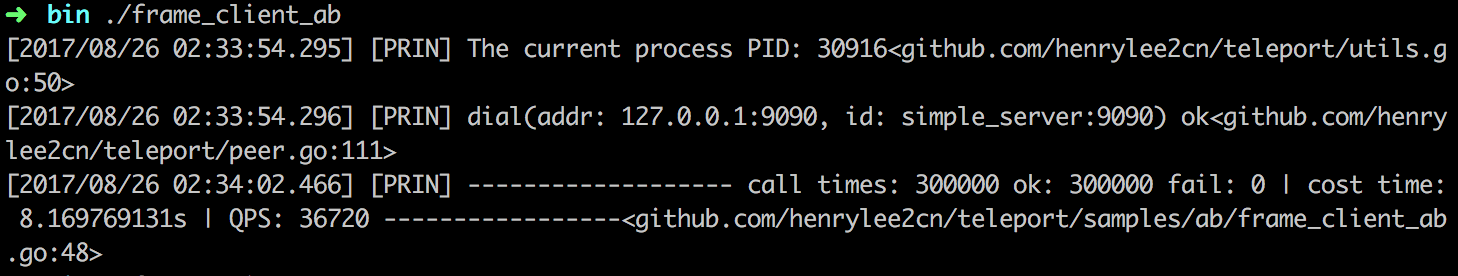
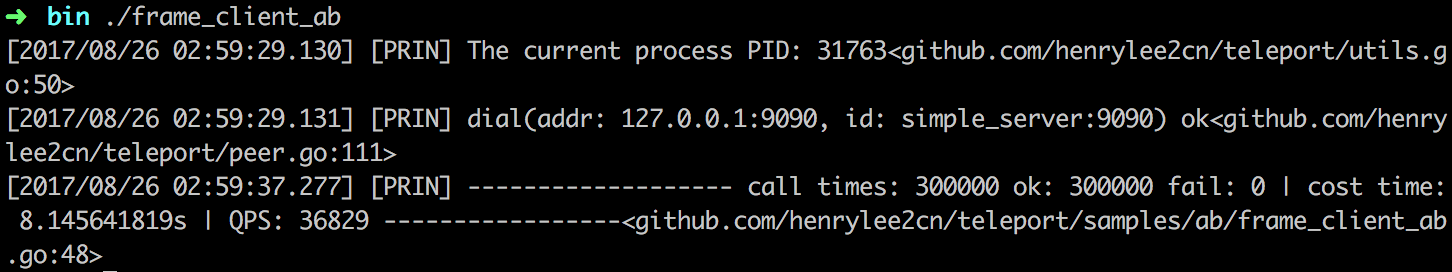
optimized codes

diff --git a/codec/json_codec.go b/codec/json_codec.go
@@ -19,11 +19,14 @@ import (
 	"encoding/json"
 	"io"
 
+	"github.com/json-iterator/go"
+
 	"github.com/henrylee2cn/teleport/utils"
 )
 
 func init() {
 	// Reg(new(JsonCodec))
+	Reg(new(JsoniterCodec))
 }
 
 // JsonCodec json codec
@@ -83,4 +86,63 @@ func (p *JsonDecoder) Decode(v interface{}) error {
 		return err
 	}
 	return json.Unmarshal(p.buf.Bytes(), v)
+}
+
+// JsoniterCodec json codec
+type JsoniterCodec struct{}
+
+// Name returns codec name
+func (j *JsoniterCodec) Name() string {
+	return "json"
+}
+
+//
+// Id returns codec id
+func (j *JsoniterCodec) Id() byte {
+	return 'j'
+}
+
+// JsoniterEncoder json decoder
+type JsoniterEncoder struct {
+	writer io.Writer
+}
+
+// NewEncoder returns a new json encoder that writes to writer.
+func (*JsoniterCodec) NewEncoder(writer io.Writer) Encoder {
+	return &JsoniterEncoder{writer}
+}
+
+// Encode writes the json encoding of v to the writer.
+func (p *JsoniterEncoder) Encode(v interface{}) error {
+	b, err := jsoniter.Marshal(v)
+	if err != nil {
+		return err
+	}
+	_, err = p.writer.Write(b)
+	return err
+}
+
+// JsoniterDecoder json decoder
+type JsoniterDecoder struct {
+	limitReader io.Reader
+	buf         *bytes.Buffer
+}
+
+// NewDecoder returns a new json decoder that reads from limit reader.
+func (*JsoniterCodec) NewDecoder(limitReader io.Reader) Decoder {
+	return &JsoniterDecoder{
+		limitReader: limitReader,
+		buf:         bytes.NewBuffer(make([]byte, 0, bytes.MinRead)),
+	}
+}
+
+// Decode reads the next json-encoded value from its
+// input and stores it in the value pointed to by v.
+func (p *JsoniterDecoder) Decode(v interface{}) error {
+	p.buf.Reset()
+	err := utils.ReadAll(p.limitReader, p.buf)
+	if err != nil && err != io.ErrUnexpectedEOF {
+		return err
+	}
+	return jsoniter.Unmarshal(p.buf.Bytes(), v)
 }

diff --git a/README.md b/README.md
@@ -7,7 +7,7 @@ It can be used for rpc, micro services, peer-peer, push services, game services 
 
 ![teleport_server](https://github.com/henrylee2cn/teleport/raw/master/doc/teleport_server.png)
 <br>
-<center><i>AB Testing 1: [Mac 4CPU 8GB] [single-process single-conn] teleport: QPS 36720</i></center>
+<center><i>AB Testing 1: [Mac 4CPU 8GB] [single-process single-conn] teleport: QPS 36829</i></center>
 
 ![teleport_frame_client_ab_test](https://github.com/henrylee2cn/teleport/raw/master/doc/frame_client_ab.png)
 <br>
